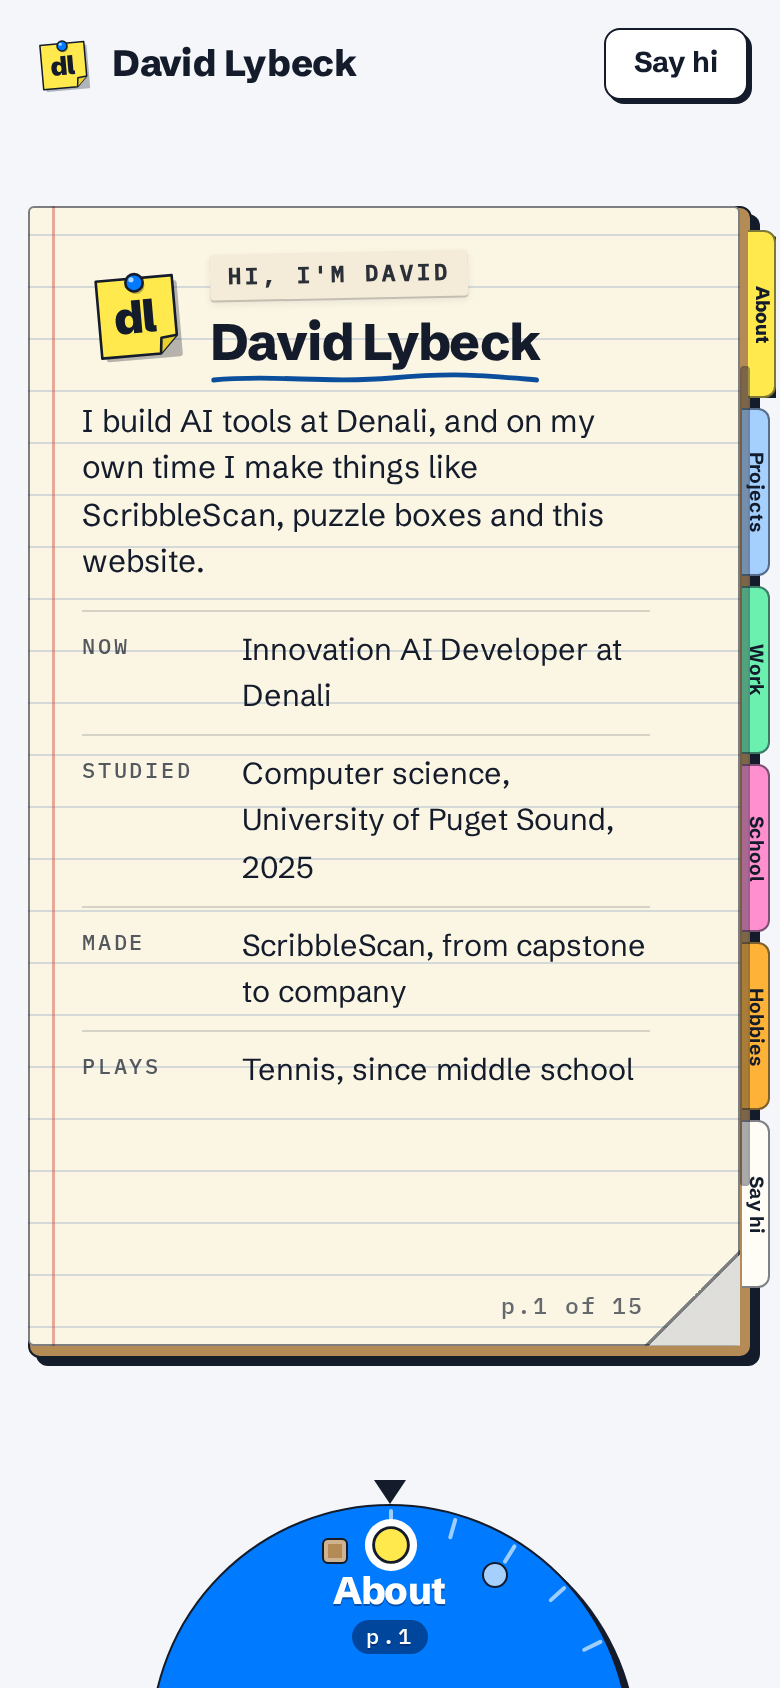
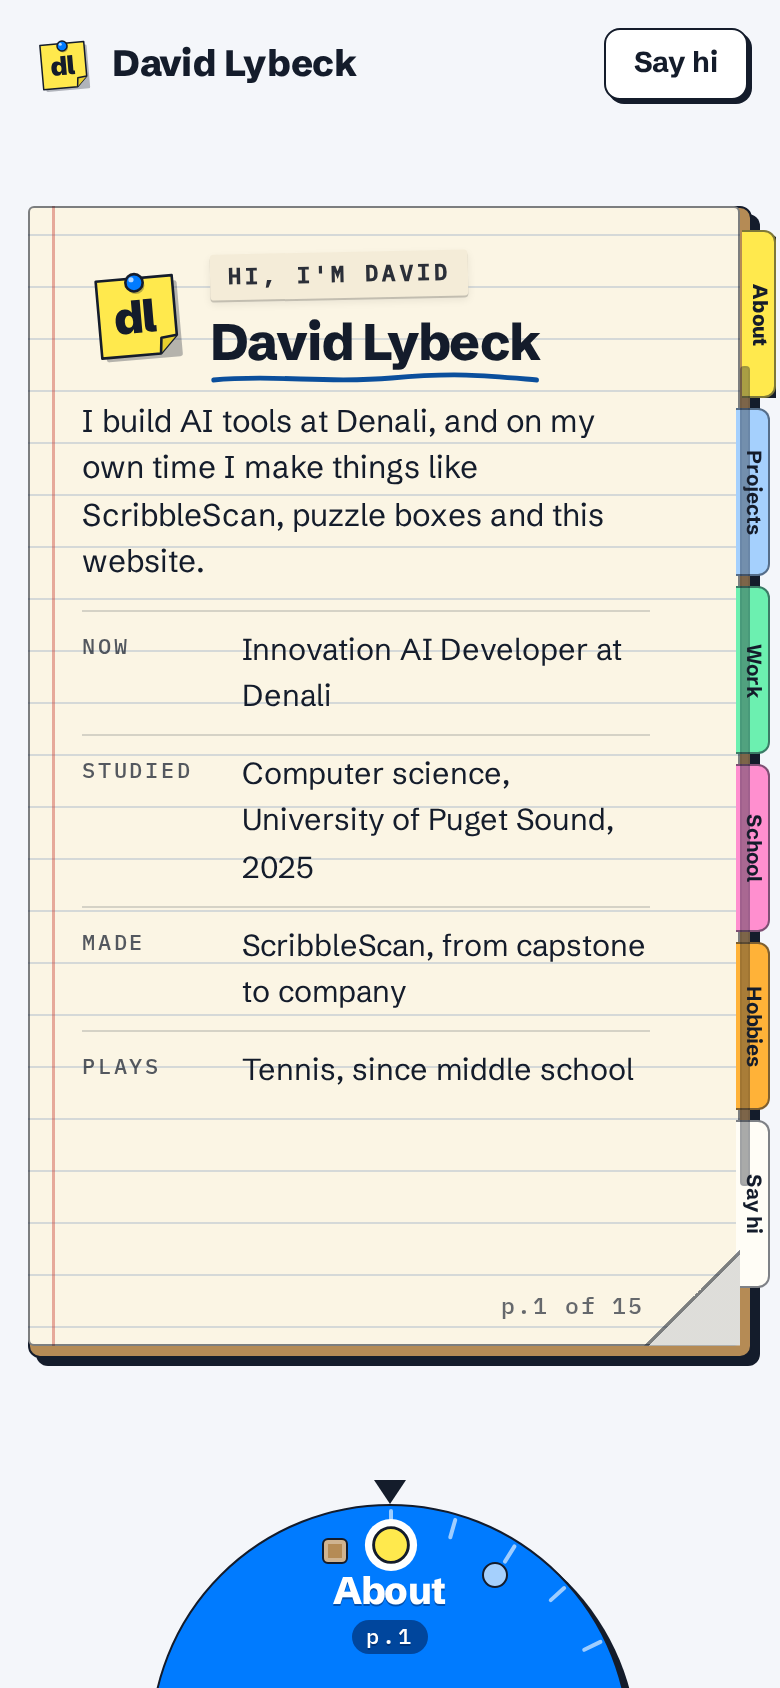
Phone tabs a little wider (16px at 360 to 18px at 430, 2px clear of the edge), label 10 to 10.5px; new screenshots

Changed region(s): [[0.9231, 0.154, 0.9846, 0.7393]]

diff --git a/static/css/notebook/tabs.css b/static/css/notebook/tabs.css
@@ -31,13 +31,13 @@
 .nb--desktop.is-closed .nb-tab, .nb--desktop.is-closed .nb-tab[aria-current] { transform: translateX(-30px); }
 
 /* ---------- phone (prototype) ----------
-   The room comes from the 20px margin to the right of the book (the page's text width is not touched). Each tab is a
-   24px-wide touch target: 10px of it is invisible and lies over the page's empty right padding, and the 14px that
-   shows is the coloured tab beside the book. Words show only while the book is open, small and turned sideways. */
-.nb--phone .nb-tabs { left: calc(100% - 6px); top: 12px; bottom: 12px; flex-direction: column; gap: 5px; }
+   The room comes from the 20px margin to the right of the book (the page's text width is not touched). The coloured part
+   is 16px wide at 360px, growing to 18px at 430px, and always ends 2px short of the screen edge. Each tab is a touch
+   target 10px wider than that (at least 26px): the extra lies invisible over the page's empty right padding. Words show only while the book is open, small and turned sideways. */
+.nb--phone .nb-tabs { --tab-v: clamp(16px, calc(16px + (100vw - 360px) * 0.0286), 18px); left: calc(100% + 8px - var(--tab-v)); top: 12px; bottom: 12px; flex-direction: column; gap: 5px; }
 .nb--phone .nb-tab {
-  position: relative; isolation: isolate; writing-mode: vertical-rl; width: 24px; flex: 1 1 0; min-height: 0; max-height: 84px;
-  padding: 2px 0 2px 10px; border: 0; background: none; box-shadow: none; font-size: 9.5px; letter-spacing: 0;
+  position: relative; isolation: isolate; writing-mode: vertical-rl; width: calc(var(--tab-v) + 10px); flex: 1 1 0; min-height: 0; max-height: 84px;
+  padding: 2px 0 2px 10px; border: 0; background: none; box-shadow: none; font-size: clamp(10px, calc(10px + (100vw - 360px) * 0.00714), 10.5px); letter-spacing: 0;
 }
 .nb--phone .nb-tab::before {
   content: ""; position: absolute; z-index: -1; inset: 0 0 0 10px; background: var(--tab); border: var(--edge) solid var(--nb-edge); border-left: 0; border-radius: 0 6px 6px 0;

diff --git a/tests/test_phone_tabs.py b/tests/test_phone_tabs.py
@@ -24,8 +24,9 @@ def test_phone_tabs_are_tappable_inside_the_screen_and_do_not_narrow_the_page(br
     boxes = [page.locator(".nb-tab").nth(i).bounding_box() for i in range(6)]
     assert len(boxes) == 6
     for box in boxes:
-        assert box["width"] >= 24 and box["height"] >= 24, box  # WCAG 2.5.8 minimum target
-        assert box["x"] + box["width"] <= viewport["width"]
+        assert box["width"] >= 26 and box["height"] >= 24, box  # WCAG 2.5.8 minimum target
+        assert box["x"] + box["width"] <= viewport["width"] - 2  # at least 2px clear of the screen edge
+        assert box["width"] - 10 >= 16  # the coloured part is at least 16px wide (the other 10px is invisible touch area)
     # the page keeps the width it had without tabs: the room came from the margin
     # (the layout rule is unchanged: a width of the screen less 34px, or less if the height cannot hold it)
     expected = min(viewport["width"] - 34, (viewport["height"] - 70 - 138) * 0.625)
